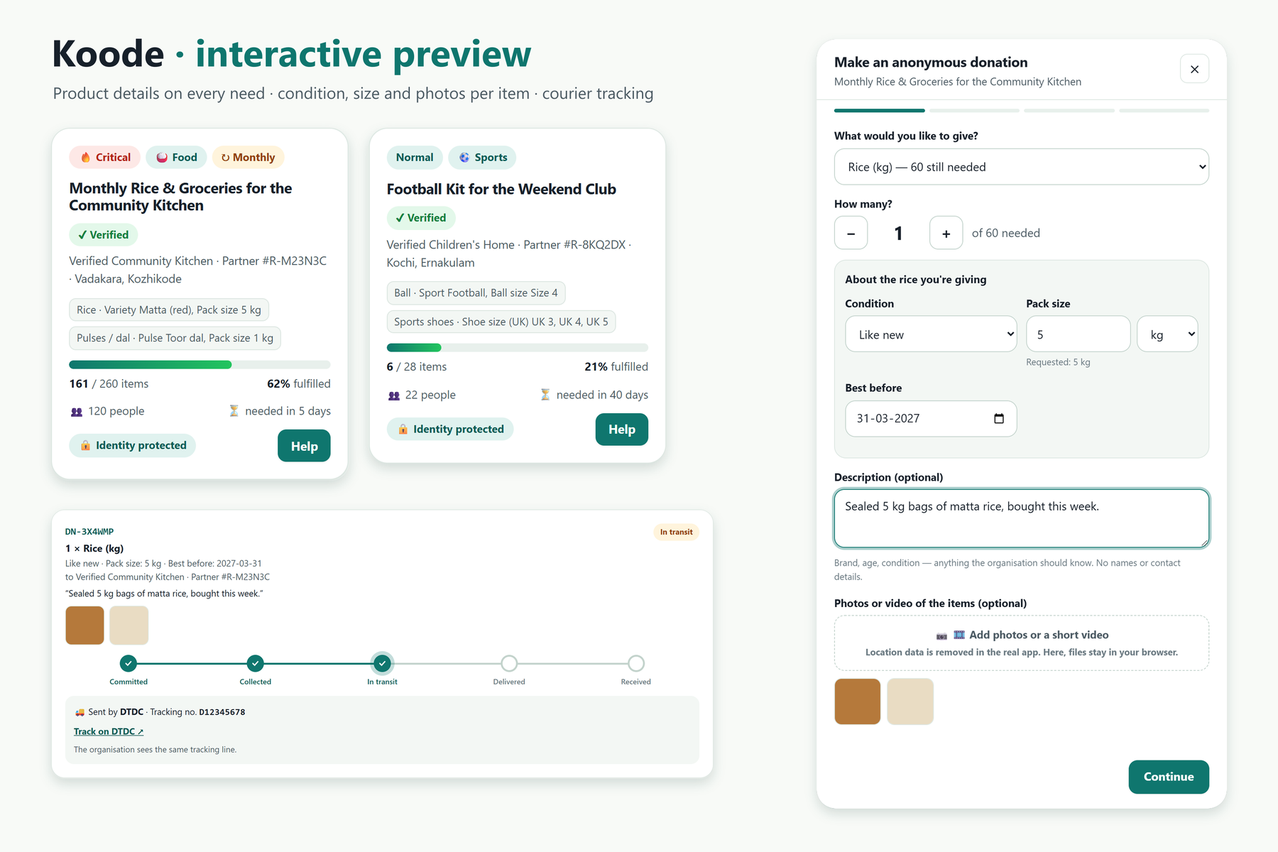
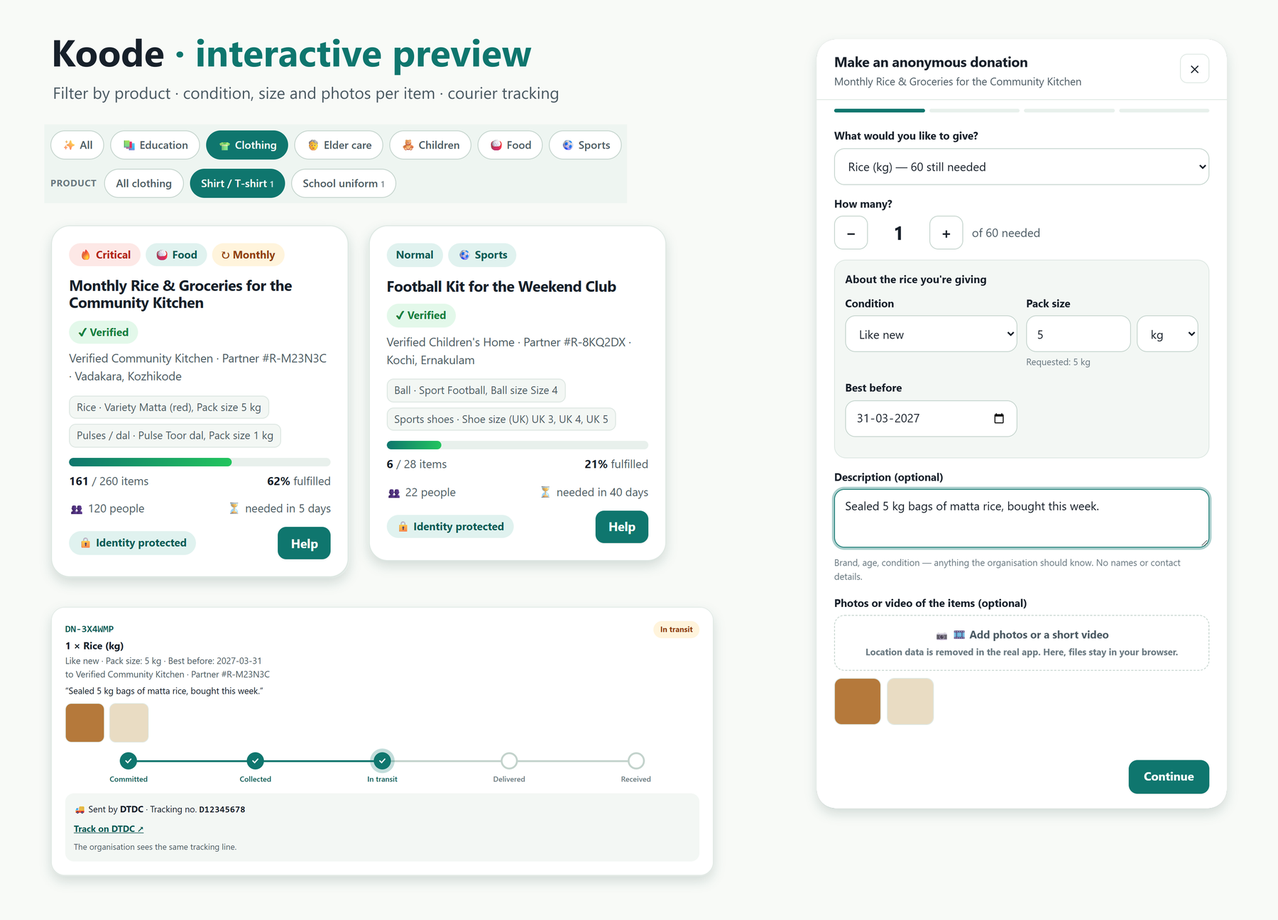
Filter needs by product type
When a category is selected, Browse Needs offers its product types that
currently have open needs (with counts), e.g. Clothing: Shirt / T-shirt,
School uniform. Choosing one shows only needs with an item of that type;
changing category clears it. Also available as ?product= on /needs and
GET /api/requests.

README and the interactive preview are updated to match, including a new
preview image showing the product filter.

diff --git a/docs/index.html b/docs/index.html
@@ -155,6 +155,8 @@ section{padding:64px 0}
 .cats{display:flex;gap:8px;flex-wrap:wrap;margin-bottom:12px}
 .cats button{border:1.5px solid var(--border-strong);background:var(--surface);color:var(--fg-muted);border-radius:999px;padding:7px 14px;font-weight:600;font-size:.88rem}
 .cats button[aria-pressed=true]{background:var(--primary);color:var(--primary-fg);border-color:var(--primary)}
+.prods{align-items:center}.prods>span{font-size:.74rem;font-weight:700;letter-spacing:.06em;text-transform:uppercase;color:var(--fg-subtle);margin-right:2px}
+.prods button small{opacity:.75;margin-left:4px}
 .hints{color:var(--fg-subtle);font-size:.86rem;margin-bottom:18px}
 .hints button{border:0;background:none;color:var(--primary-ink);text-decoration:underline;padding:0 4px;font:inherit;font-size:.86rem}
 .grid{display:grid;grid-template-columns:repeat(auto-fill,minmax(310px,1fr));gap:16px}
@@ -313,6 +315,7 @@ footer .wrap{display:flex;justify-content:space-between;gap:16px;flex-wrap:wrap;
     <select id="urgency" aria-label="Urgency"><option value="">Any urgency</option><option value="CRITICAL">Critical</option><option value="HIGH">High</option><option value="MEDIUM">Medium</option><option value="NORMAL">Normal</option></select>
   </div>
   <div class="cats" id="cats" role="group" aria-label="Categories"></div>
+  <div class="cats prods" id="prods" role="group" aria-label="Product types" hidden></div>
   <div class="hints">Try: <button data-try="shirts size 30">shirts size 30</button><button data-try="food near Kozhikode">food near Kozhikode</button><button data-try="toys for 5 year old children">toys for 5 year old children</button><button data-try="urgent blankets">urgent blankets</button></div>
   <div class="live" role="status" aria-live="polite"><i></i><span id="liveText">Listening for live donations…</span></div>
   <div class="grid" id="grid"></div>
@@ -399,7 +402,7 @@ const $=(s,r=document)=>r.querySelector(s), $$=(s,r=document)=>[...r.querySelect
 const esc=s=>String(s).replace(/[&<>"]/g,c=>({"&":"&amp;","<":"&lt;",">":"&gt;",'"':"&quot;"}[c]));
 const rid=(p)=>p+"-"+Array.from({length:6},()=>"ABCDEFGHJKLMNPQRSTUVWXYZ23456789"[Math.random()*32|0]).join("");
 const tot=n=>n.items.reduce((a,i)=>a+i[1],0), got=n=>n.items.reduce((a,i)=>a+i[2],0), pct=n=>Math.round(got(n)/tot(n)*100);
-let state={cat:"all",q:"",district:"",urgency:""};
+let state={cat:"all",product:"",q:"",district:"",urgency:""};
 const mine=[]; let reducedMotion=matchMedia("(prefers-reduced-motion: reduce)").matches;
 
 /* ───────── i18n (hero + headings) ───────── */
@@ -446,13 +449,23 @@ function visible(){
   const p=parse(state.q);
   return NEEDS.map(n=>({n,s:score(n,p)})).filter(x=>x.s>=0)
    .filter(x=>state.cat==="all"||x.n.cat===state.cat)
+   .filter(x=>!state.product||x.n.items.some(i=>i[3].type===state.product))
    .filter(x=>!state.district||x.n.district===state.district)
    .filter(x=>!state.urgency||x.n.urg===state.urgency)
    .sort((a,b)=>b.s-a.s||URGW[b.n.urg]-URGW[a.n.urg]||a.n.days-b.n.days).map(x=>x.n);
 }
 
 /* ───────── render browse ───────── */
-function renderCats(){$("#cats").innerHTML=Object.entries(CATS).map(([k,[l,e]])=>`<button aria-pressed="${state.cat===k}" data-cat="${k}">${e} ${l}</button>`).join("");$$("#cats button").forEach(b=>b.onclick=()=>{state.cat=b.dataset.cat;renderCats();renderGrid()})}
+function renderCats(){$("#cats").innerHTML=Object.entries(CATS).map(([k,[l,e]])=>`<button aria-pressed="${state.cat===k}" data-cat="${k}">${e} ${l}</button>`).join("");$$("#cats button").forEach(b=>b.onclick=()=>{state.cat=b.dataset.cat;state.product="";renderCats();renderGrid()});renderProducts()}
+/* Product types with open needs in the chosen category (mirrors the app's product filter). */
+function renderProducts(){
+  const box=$("#prods"), counts=new Map();
+  if(state.cat!=="all")NEEDS.filter(n=>n.cat===state.cat&&tot(n)>got(n)).forEach(n=>new Set(n.items.map(i=>i[3].type)).forEach(t=>counts.set(t,(counts.get(t)||0)+1)));
+  box.hidden=counts.size<2;
+  if(box.hidden)return;
+  box.innerHTML=`<span>Product</span><button aria-pressed="${!state.product}" data-prod="">All ${esc(CATS[state.cat][0].toLowerCase())}</button>`+[...counts].map(([t,c])=>`<button aria-pressed="${state.product===t}" data-prod="${esc(t)}">${esc(t)}<small>${c}</small></button>`).join("");
+  $$("#prods button").forEach(b=>b.onclick=()=>{state.product=state.product===b.dataset.prod?"":b.dataset.prod;renderProducts();renderGrid()});
+}
 $("#district").insertAdjacentHTML("beforeend",[...new Set(NEEDS.map(n=>n.district))].sort().map(d=>`<option>${d}</option>`).join(""));
 function card(n){
   const p=pct(n), left=tot(n)-got(n);
@@ -483,7 +496,7 @@ function refreshNeed(n,flash){
 $("#q").oninput=e=>{state.q=e.target.value;renderGrid()};
 $("#district").onchange=e=>{state.district=e.target.value;renderGrid()};
 $("#urgency").onchange=e=>{state.urgency=e.target.value;renderGrid()};
-$$("[data-try]").forEach(b=>b.onclick=()=>{$("#q").value=b.dataset.try;state.q=b.dataset.try;state.cat="all";renderCats();renderGrid()});
+$$("[data-try]").forEach(b=>b.onclick=()=>{$("#q").value=b.dataset.try;state.q=b.dataset.try;state.cat="all";state.product="";renderCats();renderGrid()});
 
 /* ───────── live feed (simulates the SSE stream) ───────── */
 const donorAliases=["D7K2Q","M4X9C","T2PJ8","B6RW3","K9HNA","L3ZQ5"];

diff --git a/src/components/needs/filter-bar.tsx b/src/components/needs/filter-bar.tsx
@@ -15,10 +15,15 @@ interface Option {
 export function FilterBar({
   categories,
   districts,
+  productTypes = [],
+  categoryName,
   interpreted,
 }: {
   categories: Option[];
   districts: string[];
+  /** Product types with open needs in the selected category. */
+  productTypes?: { name: string; count: number }[];
+  categoryName?: string;
   interpreted?: string | null;
 }) {
   const router = useRouter();
@@ -38,7 +43,8 @@ export function FilterBar({
     startTransition(() => router.push(`${pathname}?${sp.toString()}`, { scroll: false }));
   }
 
-  const active = ["category", "district", "urgency", "stage", "donationType"].filter((k) => params.get(k)).length;
+  const active = ["category", "product", "district", "urgency", "stage", "donationType"].filter((k) => params.get(k)).length;
+  const product = params.get("product");
 
   return (
     <div className="space-y-4">
@@ -70,9 +76,9 @@ export function FilterBar({
       )}
 
       <div className="flex flex-wrap items-center gap-2">
-        <Chip active={!params.get("category")} onClick={() => update({ category: null })}>All</Chip>
+        <Chip active={!params.get("category")} onClick={() => update({ category: null, product: null })}>All</Chip>
         {categories.map((c) => (
-          <Chip key={c.value} active={params.get("category") === c.value} onClick={() => update({ category: params.get("category") === c.value ? null : c.value })}>
+          <Chip key={c.value} active={params.get("category") === c.value} onClick={() => update({ category: params.get("category") === c.value ? null : c.value, product: null })}>
             {c.label}
           </Chip>
         ))}
@@ -85,6 +91,19 @@ export function FilterBar({
           <SlidersHorizontal className="h-4 w-4" aria-hidden="true" /> More filters {active > 0 && <span className="rounded-full bg-primary px-1.5 text-xs text-primary-fg">{active}</span>}
         </button>
       </div>
+
+      {(productTypes.length > 1 || product) && (
+        <div className="flex flex-wrap items-center gap-2" role="group" aria-label={`${categoryName ?? "Product"} types`}>
+          <span className="mr-1 text-xs font-semibold uppercase tracking-wide text-muted">Product</span>
+          <Chip small active={!product} onClick={() => update({ product: null })}>All {categoryName?.toLowerCase() ?? "products"}</Chip>
+          {productTypes.map((t) => (
+            <Chip small key={t.name} active={product === t.name} onClick={() => update({ product: product === t.name ? null : t.name })}>
+              {t.name} <span className={cn("text-xs", product === t.name ? "opacity-80" : "text-muted")}>{t.count}</span>
+            </Chip>
+          ))}
+          {product && !productTypes.some((t) => t.name === product) && <Chip small active onClick={() => update({ product: null })}>{product}</Chip>}
+        </div>
+      )}
 
       {showMore && (
         <div className="card grid animate-rise gap-4 p-4 sm:grid-cols-2 lg:grid-cols-5">
@@ -103,7 +122,7 @@ export function FilterBar({
               options={[{ value: "", label: "Choose your district" }, ...districts.map((d) => ({ value: d, label: d }))]} />
           )}
           {active > 0 && (
-            <button type="button" onClick={() => update({ district: null, urgency: null, stage: null, donationType: null, category: null, near: null })} className="inline-flex h-11 items-center gap-1.5 self-end rounded-full px-3 text-sm font-semibold text-muted hover:bg-surface-2">
+            <button type="button" onClick={() => update({ district: null, urgency: null, stage: null, donationType: null, category: null, product: null, near: null })} className="inline-flex h-11 items-center gap-1.5 self-end rounded-full px-3 text-sm font-semibold text-muted hover:bg-surface-2">
               <X className="h-4 w-4" aria-hidden="true" /> Clear filters
             </button>
           )}
@@ -113,14 +132,15 @@ export function FilterBar({
   );
 }
 
-function Chip({ active, onClick, children }: { active: boolean; onClick: () => void; children: React.ReactNode }) {
+function Chip({ active, onClick, small, children }: { active: boolean; onClick: () => void; small?: boolean; children: React.ReactNode }) {
   return (
     <button
       type="button"
       onClick={onClick}
       aria-pressed={active}
       className={cn(
-        "inline-flex h-10 items-center gap-1.5 rounded-full border px-4 text-sm font-semibold transition-colors",
+        "inline-flex items-center gap-1.5 rounded-full border text-sm font-semibold transition-colors",
+        small ? "h-10 px-3.5 font-medium" : "h-10 px-4",
         active ? "border-primary bg-primary text-primary-fg" : "border-line bg-surface text-fg hover:border-line-strong",
       )}
     >

diff --git a/src/services/requests.ts b/src/services/requests.ts
@@ -4,7 +4,7 @@ import { db } from "@/lib/db";
 import { AppError, forbidden, notFound } from "@/lib/errors";
 import { generatePublicId, withUniqueRetry } from "@/lib/ids";
 import { parseSearchQuery } from "@/lib/search";
-import { resolveCategorySchema, validateItemAttributes } from "@/lib/categories";
+import { PRODUCT_TYPE_KEY, resolveCategorySchema, validateItemAttributes } from "@/lib/categories";
 import { suggestPriority } from "@/lib/priority";
 import { DISTRICT_TILES, isKeralaDistrict, type KeralaDistrict } from "@/lib/geo";
 import { ownerRequestSelect, publicRequestSelect, toOwnerRequest, toPublicRequest, type PublicRequestDTO } from "@/lib/dto/requests";
@@ -27,6 +27,7 @@ export const STAGES = ["just_posted", "partial", "almost"] as const;
 export interface BrowseFilters {
   q?: string;
   category?: string;
+  product?: string;
   district?: string;
   urgency?: Priority;
   stage?: (typeof STAGES)[number];
@@ -77,6 +78,7 @@ export function buildBrowseWhere(filters: BrowseFilters) {
 
   const category = filters.category || interpreted?.categorySlug;
   if (category) and.push({ category: { slug: category } });
+  if (filters.product) and.push({ items: { some: { attributes: { path: [PRODUCT_TYPE_KEY], equals: filters.product } } } });
   const district = filters.district || interpreted?.district;
   if (district) and.push({ district });
   if (filters.urgency) and.push({ priority: filters.urgency });
@@ -157,6 +159,31 @@ export async function getPublicRequest(publicId: string): Promise<PublicRequestD
 
 export async function recordView(publicId: string) {
   await db.request.updateMany({ where: { publicId, status: "ACTIVE" }, data: { popularity: { increment: 1 } } });
+}
+
+/**
+ * Product types that currently have open, public needs in a category, with how
+ * many needs each — in the category's own order, so filters never lead nowhere.
+ */
+export async function productTypeCounts(categorySlug: string): Promise<{ name: string; count: number }[]> {
+  const category = await db.category.findFirst({ where: { slug: categorySlug, isActive: true }, select: { slug: true, fieldSchema: true } });
+  if (!category) return [];
+  const items = await db.requestItem.findMany({
+    where: { request: { AND: [PUBLIC_VISIBILITY, { status: "ACTIVE" }, { category: { slug: categorySlug } }] } },
+    select: { requestId: true, attributes: true },
+    take: 5000,
+  });
+  const needs = new Map<string, Set<string>>();
+  for (const item of items) {
+    const type = (item.attributes as Record<string, unknown> | null)?.[PRODUCT_TYPE_KEY];
+    if (typeof type !== "string") continue;
+    if (!needs.has(type)) needs.set(type, new Set());
+    needs.get(type)!.add(item.requestId);
+  }
+  const order = resolveCategorySchema(category.slug, category.fieldSchema).productTypes?.map((t) => t.name) ?? [];
+  return [...needs.entries()]
+    .map(([name, ids]) => ({ name, count: ids.size }))
+    .sort((a, b) => (order.indexOf(a.name) + 1 || 999) - (order.indexOf(b.name) + 1 || 999) || a.name.localeCompare(b.name));
 }
 
 export async function listCategories(includeInactive = false) {

diff --git a/tests/integration/product-types.test.ts b/tests/integration/product-types.test.ts
@@ -8,6 +8,7 @@ import { activeRequest, db, makeFixtures, type Fixtures } from "../helpers/fixtu
 import * as requestsRoute from "@/app/api/requests/route";
 import * as requestRoute from "@/app/api/requests/[id]/route";
 import * as donationsRoute from "@/app/api/donations/route";
+import { productTypeCounts } from "@/services/requests";
 
 let f: Fixtures;
 const categoryId = async (slug: string) => (await db.category.findUniqueOrThrow({ where: { slug } })).id;
@@ -118,5 +119,38 @@ describe("donors describing what they give", () => {
     const r = await donate([{ requestItemId: riceId, quantity: 1 }]);
     expect(r.status).toBe(201);
     expect(r.json.data.condition).toBe("NEW");
+  });
+});
+
+describe("browsing by product type", () => {
+  beforeAll(async () => {
+    const sports = await categoryId("sports");
+    await activeRequest(f.recipientB.org.id, [{ name: "Football", quantity: 4, attributes: { productType: "Ball", size: "Size 4" } }, { name: "Shin guards", quantity: 10, attributes: { productType: "Protective gear", gear: "Shin guards" } }], sports);
+    await activeRequest(f.recipientB.org.id, [{ name: "Volleyball", quantity: 2, attributes: { productType: "Ball", size: "Size 5" } }], sports);
+    await activeRequest(f.recipientB.org.id, [{ name: "Bat", quantity: 2, attributes: { productType: "Cricket bat", size: "Size 4" } }], sports);
+    // Not public: a draft never counts.
+    const draft = await activeRequest(f.recipientB.org.id, [{ name: "Racket", quantity: 1, attributes: { productType: "Racket", sport: "Badminton" } }], sports);
+    await db.request.update({ where: { id: draft.id }, data: { status: "DRAFT" } });
+  });
+
+  it("filters needs to those with an item of that product type", async () => {
+    const r = await call(requestsRoute.GET, { path: "/api/requests?category=sports&product=Ball" });
+    const titles = (r.json.data.items as { items: { name: string }[] }[]).map((n) => n.items.map((i) => i.name).join("+"));
+    expect(titles.sort()).toEqual(["Football+Shin guards", "Volleyball"]);
+    expect(r.json.data.total).toBe(2);
+  });
+
+  it("counts open needs per product type in the catalogue's order, ignoring drafts", async () => {
+    expect(await productTypeCounts("sports")).toEqual([
+      { name: "Ball", count: 2 },
+      { name: "Cricket bat", count: 1 },
+      { name: "Protective gear", count: 1 },
+    ]);
+    expect(await productTypeCounts("no-such-category")).toEqual([]);
+  });
+
+  it("ignores an over-long product parameter instead of failing", async () => {
+    const r = await call(requestsRoute.GET, { path: `/api/requests?category=sports&product=${"x".repeat(80)}` });
+    expect(r.status).toBe(200);
   });
 });

diff --git a/src/components/needs/browse-view.tsx b/src/components/needs/browse-view.tsx
@@ -4,18 +4,19 @@ import { EmptyState } from "@/components/ui/states";
 import { Pagination } from "@/components/ui/pagination";
 import { NeedCard } from "./need-card";
 import { FilterBar } from "./filter-bar";
-import { browseRequests, listCategories, type BrowseFilters } from "@/services/requests";
+import { browseRequests, listCategories, productTypeCounts, type BrowseFilters } from "@/services/requests";
 import { KERALA_DISTRICTS } from "@/lib/geo";
 import type { BrowseQuery } from "@/lib/validation/browse";
 
 export async function BrowseView({ query, basePath, fixedCategory }: { query: BrowseQuery; basePath: string; fixedCategory?: string }) {
   const filters: BrowseFilters = { ...query, category: fixedCategory ?? query.category };
-  const [result, categories] = await Promise.all([browseRequests(filters), listCategories()]);
+  const [result, categories, productTypes] = await Promise.all([browseRequests(filters), listCategories(), filters.category ? productTypeCounts(filters.category) : []]);
 
   const interpreted = result.interpreted
     ? [
         result.interpreted.terms.length ? `“${result.interpreted.terms.join(" ")}”` : null,
         result.interpreted.categorySlug ? categories.find((c) => c.slug === result.interpreted!.categorySlug)?.name : null,
+        query.product ?? null,
         result.interpreted.size ? `size ${result.interpreted.size}` : null,
         result.interpreted.age !== undefined ? `age ${result.interpreted.age}` : null,
         result.interpreted.district ? `near ${result.interpreted.district}` : null,
@@ -39,6 +40,8 @@ export async function BrowseView({ query, basePath, fixedCategory }: { query: Br
         <FilterBar
           categories={categories.map((c) => ({ value: c.slug, label: `${c.icon} ${c.name}` }))}
           districts={[...KERALA_DISTRICTS]}
+          productTypes={productTypes}
+          categoryName={categories.find((c) => c.slug === filters.category)?.name}
           interpreted={interpreted}
         />
       </Suspense>

diff --git a/e2e/product-filter.spec.ts b/e2e/product-filter.spec.ts
@@ -1,0 +1,19 @@
+import { expect, test } from "@playwright/test";
+
+test("donors can narrow a category to one product type", async ({ page }) => {
+  await page.goto("/needs?category=clothing");
+  const products = page.getByRole("group", { name: "Clothing types" });
+  await expect(products.getByRole("button", { name: /Shirt \/ T-shirt/ })).toBeVisible();
+  await expect(page.getByRole("article").filter({ hasText: "School Uniforms for Grade 3 and 4" })).toBeVisible();
+
+  await products.getByRole("button", { name: /Shirt \/ T-shirt/ }).click();
+  await expect(page).toHaveURL(/product=Shirt/);
+  await expect(page.getByRole("article").filter({ hasText: "Children's Shirts for Daily Wear" })).toBeVisible();
+  await expect(page.getByRole("article").filter({ hasText: "School Uniforms for Grade 3 and 4" })).toHaveCount(0);
+  await expect(page.getByText(/Showing results for .*Shirt \/ T-shirt/)).toHaveCount(0); // not a text search
+
+  // Switching category clears the product filter.
+  await page.getByRole("button", { name: /Food/ }).first().click();
+  await expect(page).toHaveURL(/category=food/);
+  await expect(page).not.toHaveURL(/product=/);
+});

diff --git a/src/lib/validation/browse.ts b/src/lib/validation/browse.ts
@@ -6,6 +6,8 @@ const empty = (v: unknown) => (v === "" || v === null ? undefined : v);
 export const browseQuerySchema = z.object({
   q: z.preprocess(empty, z.string().trim().max(200).optional()),
   category: z.preprocess(empty, z.string().regex(/^[a-z][a-z0-9-]{1,30}$/).optional()),
+  /** A product type within the category, e.g. "Footwear". */
+  product: z.preprocess(empty, z.string().trim().min(1).max(40).optional()),
   district: z.preprocess(empty, z.enum(KERALA_DISTRICTS).optional()),
   near: z.preprocess(empty, z.enum(KERALA_DISTRICTS).optional()),
   urgency: z.preprocess(empty, z.enum(["CRITICAL", "HIGH", "MEDIUM", "NORMAL"]).optional()),

diff --git a/README.md b/README.md
@@ -6,7 +6,7 @@
 
 [![Koode interactive preview: need cards with product details, the donation form with condition, pack size, best-before date and photos, and a courier donation in transit with DTDC tracking](docs/preview-app.png)](https://am4l-babu.github.io/Koode/)
 
-A click-through demo with sample data: search needs in plain language, make an anonymous donation — describing each item's condition, size or pack, with a description and photos — then send it by courier, add the tracking number and watch it travel. Switch between donor / recipient / moderator / admin to see the privacy rules in action, and flip dark mode or Malayalam / Hindi. It runs entirely in your browser — no real donations, and nothing you enter or attach leaves the page. Source: [`docs/index.html`](docs/index.html).
+A click-through demo with sample data: search needs in plain language or narrow a category to one product type, make an anonymous donation — describing each item's condition, size or pack, with a description and photos — then send it by courier, add the tracking number and watch it travel. Switch between donor / recipient / moderator / admin to see the privacy rules in action, and flip dark mode or Malayalam / Hindi. It runs entirely in your browser — no real donations, and nothing you enter or attach leaves the page. Source: [`docs/index.html`](docs/index.html).
 
 A privacy-first donation platform that connects people who want to donate specific items with **verified** schools, children's homes, elder-care homes, shelters and community organisations — without either side ever seeing the other's identity. The platform (and only authorised administrators) act as the trusted intermediary.
 
@@ -14,7 +14,7 @@ A privacy-first donation platform that connects people who want to donate specif
 |---|---|
 | **Stack** | Next.js 15 (App Router) · React 19 · TypeScript · Tailwind CSS 4 · Prisma 6 · PostgreSQL 16 |
 | **Auth** | Database-backed sessions, Argon2id passwords, httpOnly `SameSite=Lax` cookies (`__Host-` + `Secure` in production) |
-| **Tests** | 221 Vitest unit/integration/security tests · 21 Playwright E2E tests (desktop + mobile) |
+| **Tests** | 224 Vitest unit/integration/security tests · 22 Playwright E2E tests (desktop + mobile) |
 | **i18n** | English · Malayalam · Hindi |
 
 ---
@@ -37,7 +37,7 @@ A privacy-first donation platform that connects people who want to donate specif
 
 ## Features
 
-**Donors** — browse/search/filter verified needs (natural-language search such as *"shirts size 30"*, *"food near Thrissur"*, *"toys for 5 year old children"*), guided 4-step anonymous donation modal, **per-item details** (condition for each item plus the product's own questions — actual size, pack size, best-before date, height…, with the recipient's requirement shown alongside), a description and **photos / a short video** of the items, **courier tracking** (pick from 14 courier services used in Kerala and enter the tracking number; the donation moves to *in transit* and the organisation can follow it), live fulfilment counters (Server-Sent Events), animated donation tracking timeline, personal impact + private milestones, "Needs you can fulfil" recommendations, account deletion.
+**Donors** — browse/search/filter verified needs (natural-language search such as *"shirts size 30"*, *"food near Thrissur"*, *"toys for 5 year old children"*), **filter by product type** within a category (e.g. *Clothing → Footwear*, *Food → Rice* — only types with open needs are offered, with counts), guided 4-step anonymous donation modal, **per-item details** (condition for each item plus the product's own questions — actual size, pack size, best-before date, height…, with the recipient's requirement shown alongside), a description and **photos / a short video** of the items, **courier tracking** (pick from 14 courier services used in Kerala and enter the tracking number; the donation moves to *in transit* and the organisation can follow it), live fulfilment counters (Server-Sent Events), animated donation tracking timeline, personal impact + private milestones, "Needs you can fulfil" recommendations, account deletion.
 
 **Recipients** — organisation registration with encrypted private details, document upload to private storage, verification workflow, **schema-driven Smart Request Builder** (category fields come from the database, so admins can add categories without code) with **product types**: choosing e.g. *Footwear*, *Saree*, *Table / desk* or *Wheelchair* shows that product's own measurements (cm/in, kg/g, L/ml), required fields and default unit — 64 product types across the built-in categories in [`src/lib/product-types.ts`](src/lib/product-types.ts). Per-item fulfilment tracking, recurring requests, donors' photos/descriptions/courier tracking on each donation, confirm receipt, anonymous donor references.
 
@@ -124,8 +124,8 @@ Seed data includes the four requests from the brief (school bags in Thrissur, ch
 createdb donation_test
 createdb donation_e2e
 
-npm test            # 221 tests, ~10s — uses TEST_DATABASE_URL (default: localhost/donation_test)
-npm run test:e2e    # 21 tests — uses E2E_DATABASE_URL (default: localhost/donation_e2e)
+npm test            # 224 tests, ~10s — uses TEST_DATABASE_URL (default: localhost/donation_test)
+npm run test:e2e    # 22 tests — uses E2E_DATABASE_URL (default: localhost/donation_e2e)
 ```
 
 | Suite | Covers |
@@ -141,8 +141,8 @@ npm run test:e2e    # 21 tests — uses E2E_DATABASE_URL (default: localhost/don
 | `tests/integration/api-security` | Admin APIs vs anonymous/donor/recipient (36 cases), role tampering, cross-user access, CSRF, enumeration, suspension, signed documents |
 | `tests/integration/flows` | Recipient → verification → request → approval; donor → donate → track → receive; password reset; email verification |
 | `tests/integration/concurrency` | Racing donors never over-commit (2 vs 2 for last 2; 30 vs 7); all-or-nothing multi-item; DB constraints |
-| `tests/integration/product-types` · `courier-tracking` · `review-fixes` | Requests with product types, donor details per item, new-only items, courier tracking and status changes, media upload limits, byte ranges and moderation |
-| `e2e/*` | Full browser journeys for donor, recipient, admin approval, identity reveal, keyboard/a11y, i18n, dark mode, mobile flow, security headers, photos/videos with moderation, courier tracking, password visibility |
+| `tests/integration/product-types` · `courier-tracking` · `review-fixes` | Requests with product types, browsing by product type, donor details per item, new-only items, courier tracking and status changes, media upload limits, byte ranges and moderation |
+| `e2e/*` | Full browser journeys for donor, recipient, admin approval, identity reveal, keyboard/a11y, i18n, dark mode, mobile flow, security headers, photos/videos with moderation, courier tracking, product-type filter, password visibility |
 
 Route handlers are tested by invoking them directly with real `NextRequest` objects against a real PostgreSQL database — the same authorization middleware, validation and SQL that production uses.
 
@@ -181,7 +181,7 @@ All endpoints return `{ data }` or `{ error: { code, message, details?, errorId?
 
 | Audience | Endpoints |
 |---|---|
-| Public | `GET /api/requests` (filters: `q, category, district, urgency, stage, donationType, sort, near, page`) · `GET /api/requests/:id` · `GET /api/requests/:id/stream` (SSE) · `POST /api/requests/:id/report` · `GET /api/categories` · `GET /api/impact` |
+| Public | `GET /api/requests` (filters: `q, category, product, district, urgency, stage, donationType, sort, near, page`) · `GET /api/requests/:id` · `GET /api/requests/:id/stream` (SSE) · `POST /api/requests/:id/report` · `GET /api/categories` · `GET /api/impact` |
 | Auth | `POST /api/auth/{register,login,logout,forgot-password,reset-password,verify-email}` · `POST /api/auth/phone/{send,verify}` · `GET/DELETE /api/me` · `GET/PATCH /api/notifications` · `GET /api/notifications/stream` |
 | Donor | `POST /api/donations` · `GET /api/my-donations` · `GET/PATCH /api/my-donations/:id` · `GET/POST /api/my-donations/:id/media` · `DELETE /api/my-donations/:id/media/:mediaId` · `PUT /api/my-donations/:id/tracking` · `GET /api/recommendations` |
 | Media | `GET /api/media/:id` — donor, addressed organisation (approved files only) or moderating admin; supports byte ranges |
